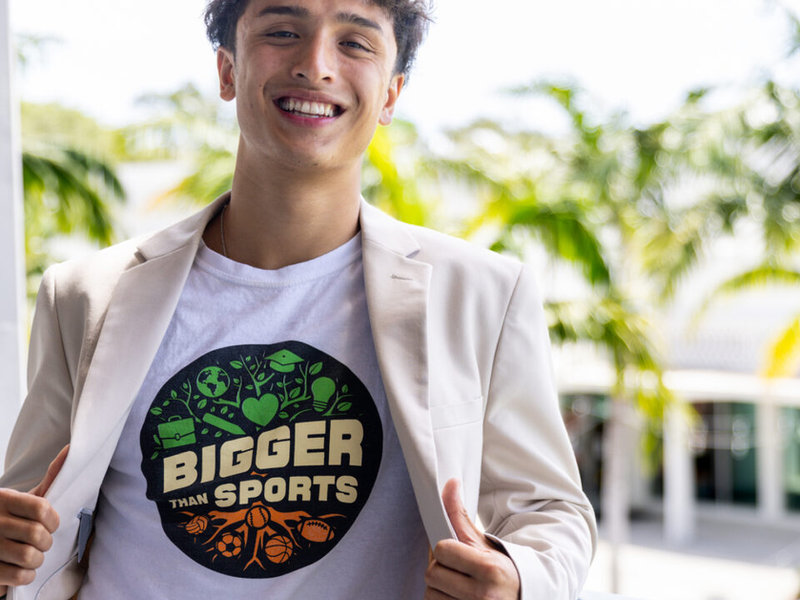
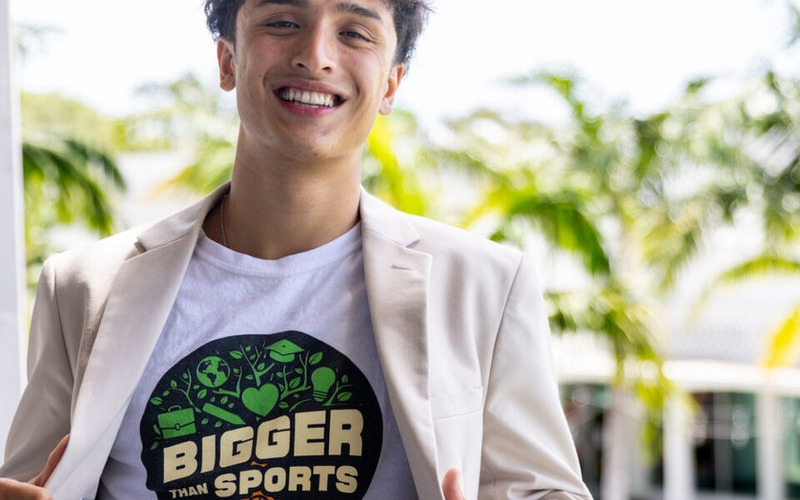
Physically crop Lynn Honor news photo to eliminate eye cutoff

diff --git a/index.html b/index.html
@@ -7,7 +7,7 @@
 <meta name="description" content="Bigger Than Sports is a youth-led nonprofit dedicated to fighting educational inequality through the power of sports, equipping student athletes with mentorship and a plan for life after the game.">
 <link rel="preconnect" href="https://fonts.googleapis.com">
 <link href="https://fonts.googleapis.com/css2?family=Anton&family=Arvo:wght@700&family=Poppins:wght@400;500;600;700&display=swap" rel="stylesheet">
-<link rel="stylesheet" href="style.css?v=20261109f">
+<link rel="stylesheet" href="style.css?v=20261110a">
 <link rel="icon" href="logo.png">
 </head>
 <body>
@@ -428,7 +428,7 @@
       </a>
       <a class="news-card" href="https://www.lynn.edu/news/2025/leading-with-purpose-lynn-student-honored-for-nonprofit-initiative" target="_blank" rel="noopener">
         <div class="news-img-wrap">
-          <img src="news-lynn-honor.jpg" alt="Leading with purpose: Lynn student honored for nonprofit initiative" style="object-position: center 10%;">
+          <img src="news-lynn-honor.jpg" alt="Leading with purpose: Lynn student honored for nonprofit initiative">
           <span class="news-hover-label">Read Article</span>
         </div>
         <h3>Leading with purpose: Lynn student honored for nonprofit initiative</h3>
